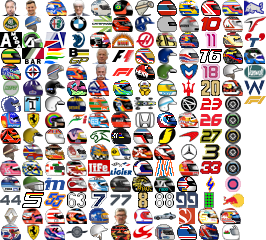
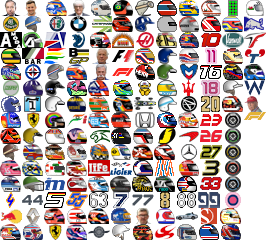
Added Niki Lauda memorial flair

Changed region(s): [[0.0, 0.0, 1.0, 1.0]]

diff --git a/src/styles/modules/_user-flairs.scss b/src/styles/modules/_user-flairs.scss
@@ -17,7 +17,7 @@
   background-position: -132px -160px;
 }
 .flair-alan-jones:before {
-  background-position: -222px -16px;
+  background-position: -200px 0px;
 }
 .flair-alberto-ascari:before {
   background-position: -22px -16px;
@@ -334,191 +334,194 @@
 .flair-nigel-mansell:before {
   background-position: -176px -176px;
 }
-.flair-niki-lauda:before {
-  background-position: -200px 0px;
-}
-.flair-no-10:before {
-  background-position: -200px -16px;
-}
-.flair-no-11:before {
-  background-position: -200px -32px;
-}
-.flair-no-16:before {
-  background-position: -200px -48px;
-}
-.flair-no-18:before {
-  background-position: -200px -64px;
-}
-.flair-no-20:before {
-  background-position: -200px -80px;
-}
-.flair-no-23:before {
-  background-position: -200px -96px;
-}
-.flair-no-26:before {
-  background-position: -200px -112px;
-}
-.flair-no-27:before {
-  background-position: -200px -128px;
-}
-.flair-no-3:before {
-  background-position: -200px -144px;
-}
-.flair-no-33:before {
-  background-position: -200px -160px;
-}
-.flair-no-4:before {
-  background-position: -200px -176px;
-}
-.flair-no-44:before {
-  background-position: 0px -192px;
-}
-.flair-no-5:before {
-  background-position: -22px -192px;
-}
-.flair-no-55:before {
-  background-position: -44px -192px;
-}
-.flair-no-63:before {
-  background-position: -66px -192px;
-}
-.flair-no-7:before {
-  background-position: -88px -192px;
-}
-.flair-no-77:before {
-  background-position: -110px -192px;
-}
-.flair-no-8:before {
-  background-position: -132px -192px;
-}
-.flair-no-88:before {
-  background-position: -154px -192px;
-}
-.flair-no-99:before {
-  background-position: -176px -192px;
-}
-.flair-noob:before {
-  background-position: -198px -192px;
-}
-.flair-oliver-turvey:before {
-  background-position: -222px 0px;
-}
-.flair-paddock-club:before {
+.flair-niki-lauda-memorial:before {
   background-position: -244px -96px;
 }
-.flair-pascal-wehrlein:before {
-  background-position: -222px -32px;
+.flair-niki-lauda:before {
+  background-position: -200px -16px;
 }
-.flair-pastor-maldonado:before {
+.flair-no-10:before {
+  background-position: -200px -32px;
+}
+.flair-no-11:before {
+  background-position: -200px -48px;
+}
+.flair-no-16:before {
+  background-position: -200px -64px;
+}
+.flair-no-18:before {
+  background-position: -200px -80px;
+}
+.flair-no-20:before {
+  background-position: -200px -96px;
+}
+.flair-no-23:before {
+  background-position: -200px -112px;
+}
+.flair-no-26:before {
+  background-position: -200px -128px;
+}
+.flair-no-27:before {
+  background-position: -200px -144px;
+}
+.flair-no-3:before {
+  background-position: -200px -160px;
+}
+.flair-no-33:before {
+  background-position: -200px -176px;
+}
+.flair-no-4:before {
+  background-position: 0px -192px;
+}
+.flair-no-44:before {
+  background-position: -22px -192px;
+}
+.flair-no-5:before {
+  background-position: -44px -192px;
+}
+.flair-no-55:before {
+  background-position: -66px -192px;
+}
+.flair-no-63:before {
+  background-position: -88px -192px;
+}
+.flair-no-7:before {
+  background-position: -110px -192px;
+}
+.flair-no-77:before {
+  background-position: -132px -192px;
+}
+.flair-no-8:before {
+  background-position: -154px -192px;
+}
+.flair-no-88:before {
+  background-position: -176px -192px;
+}
+.flair-no-99:before {
+  background-position: -198px -192px;
+}
+.flair-noob:before {
+  background-position: -222px 0px;
+}
+.flair-oliver-turvey:before {
+  background-position: -222px -16px;
+}
+.flair-paddock-club:before {
+  background-position: -244px -112px;
+}
+.flair-pascal-wehrlein:before {
   background-position: -222px -48px;
 }
-.flair-phil-hill:before {
+.flair-pastor-maldonado:before {
   background-position: -222px -64px;
 }
-.flair-pierre-gasly:before {
+.flair-phil-hill:before {
   background-position: -222px -80px;
 }
-.flair-pirelli-hard:before {
+.flair-pierre-gasly:before {
   background-position: -222px -96px;
 }
-.flair-pirelli-intermediate:before {
+.flair-pirelli-hard:before {
   background-position: -222px -112px;
 }
-.flair-pirelli-medium:before {
+.flair-pirelli-intermediate:before {
   background-position: -222px -128px;
 }
-.flair-pirelli-soft:before {
+.flair-pirelli-medium:before {
   background-position: -222px -144px;
 }
-.flair-pirelli-wet:before {
+.flair-pirelli-soft:before {
   background-position: -222px -160px;
 }
-.flair-racing-point:before {
+.flair-pirelli-wet:before {
   background-position: -222px -176px;
 }
-.flair-red-bull:before {
+.flair-racing-point:before {
   background-position: -222px -192px;
 }
-.flair-renault:before {
+.flair-red-bull:before {
   background-position: 0px -208px;
 }
-.flair-robert-kubica:before {
+.flair-renault:before {
   background-position: -22px -208px;
 }
-.flair-roland-ratzenberger:before {
+.flair-robert-kubica:before {
   background-position: -44px -208px;
 }
-.flair-romain-grosjean:before {
+.flair-roland-ratzenberger:before {
   background-position: -66px -208px;
 }
-.flair-ronnie-peterson:before {
+.flair-romain-grosjean:before {
   background-position: -88px -208px;
 }
-.flair-ross-brawn:before {
+.flair-ronnie-peterson:before {
   background-position: -110px -208px;
 }
-.flair-rubens-barrichello:before {
+.flair-ross-brawn:before {
   background-position: -132px -208px;
 }
-.flair-safety-car:before {
+.flair-rubens-barrichello:before {
   background-position: -154px -208px;
 }
-.flair-sauber:before {
+.flair-safety-car:before {
   background-position: -176px -208px;
 }
-.flair-sebastian-vettel:before {
+.flair-sauber:before {
   background-position: -198px -208px;
 }
-.flair-sebastien-buemi:before {
+.flair-sebastian-vettel:before {
   background-position: -220px -208px;
 }
-.flair-sergey-sirotkin:before {
+.flair-sebastien-buemi:before {
   background-position: 0px -224px;
 }
-.flair-sergio-marchionne:before {
+.flair-sergey-sirotkin:before {
   background-position: -22px -224px;
 }
-.flair-sergio-perez:before {
+.flair-sergio-marchionne:before {
   background-position: -44px -224px;
 }
-.flair-spyker:before {
+.flair-sergio-perez:before {
   background-position: -66px -224px;
 }
-.flair-stirling-moss:before {
+.flair-spyker:before {
   background-position: -88px -224px;
 }
-.flair-stoffel-vandoorne:before {
+.flair-stirling-moss:before {
   background-position: -110px -224px;
 }
-.flair-super-aguri:before {
+.flair-stoffel-vandoorne:before {
   background-position: -132px -224px;
 }
-.flair-susie-wolff:before {
+.flair-super-aguri:before {
   background-position: -154px -224px;
 }
-.flair-taki-inoue:before {
+.flair-susie-wolff:before {
   background-position: -176px -224px;
 }
-.flair-tatiana-calderon:before {
+.flair-taki-inoue:before {
   background-position: -198px -224px;
 }
-.flair-tom-pryce:before {
+.flair-tatiana-calderon:before {
   background-position: -220px -224px;
 }
-.flair-toro-rosso:before {
+.flair-tom-pryce:before {
   background-position: -244px 0px;
 }
-.flair-toyota:before {
+.flair-toro-rosso:before {
   background-position: -244px -16px;
 }
-.flair-tyrrell:before {
+.flair-toyota:before {
   background-position: -244px -32px;
 }
-.flair-valtteri-bottas:before {
+.flair-tyrrell:before {
   background-position: -244px -48px;
 }
-.flair-vanwall:before {
+.flair-valtteri-bottas:before {
   background-position: -244px -64px;
+}
+.flair-vanwall:before {
+  background-position: -222px -32px;
 }
 .flair-will-buxton:before {
   background-position: -23px 0px;
